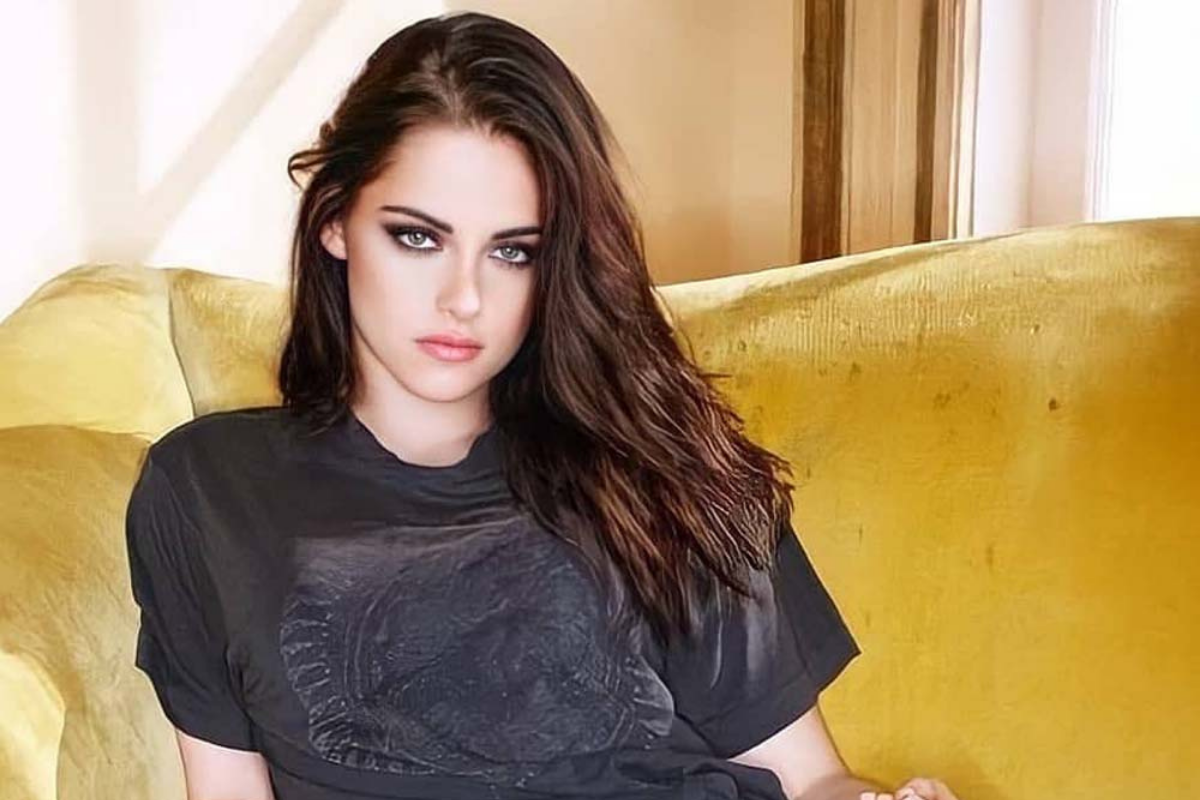
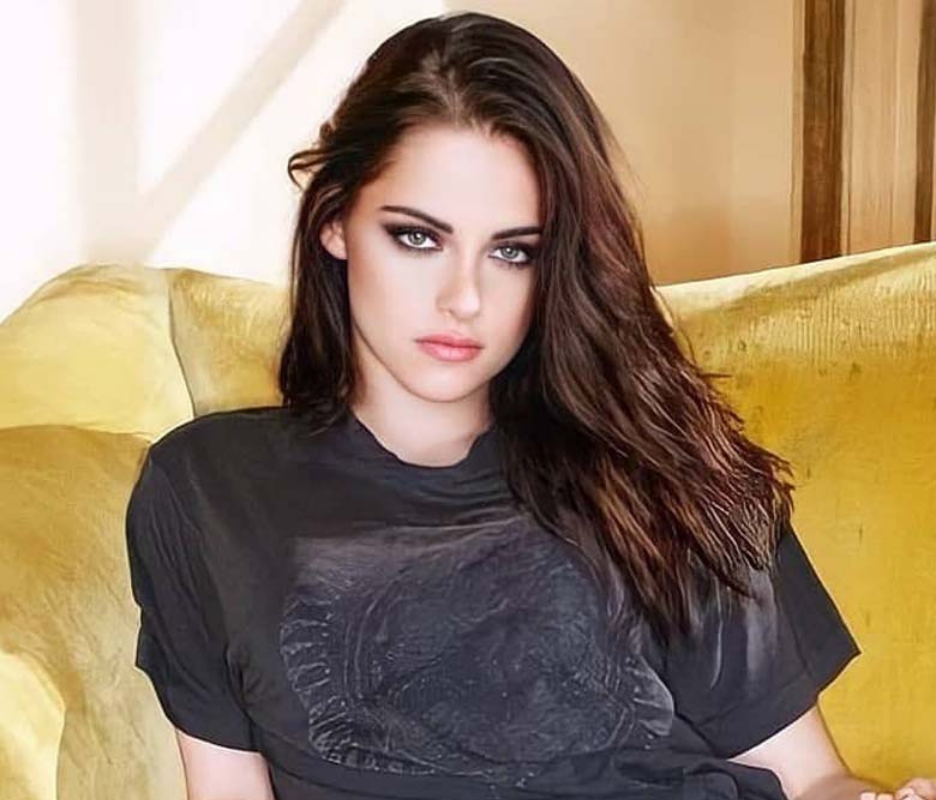
feed tile wip

diff --git a/fsfrontend/src/main/Suggestions.jsx b/fsfrontend/src/main/Suggestions.jsx
@@ -10,7 +10,11 @@ const Suggestions = () => {
 
   return (
     <>
-      { suggestions.map(item=>(<div key={item.profileId} className="col-6 lg:col-3 md:col-6"><img width="100%" src={item.img}/></div>))}
+      { suggestions.map(item=>(
+      <div key={item.profileId} style={{ height:"200px", overflow:"hidden", justifyContent:"center" }} className="col-6 lg:col-3 md:col-6">
+        <img width="100%" src={item.img}/>
+        <div>{item.profileId} {item.location}</div>
+      </div>))}
     </>
   )
 }
